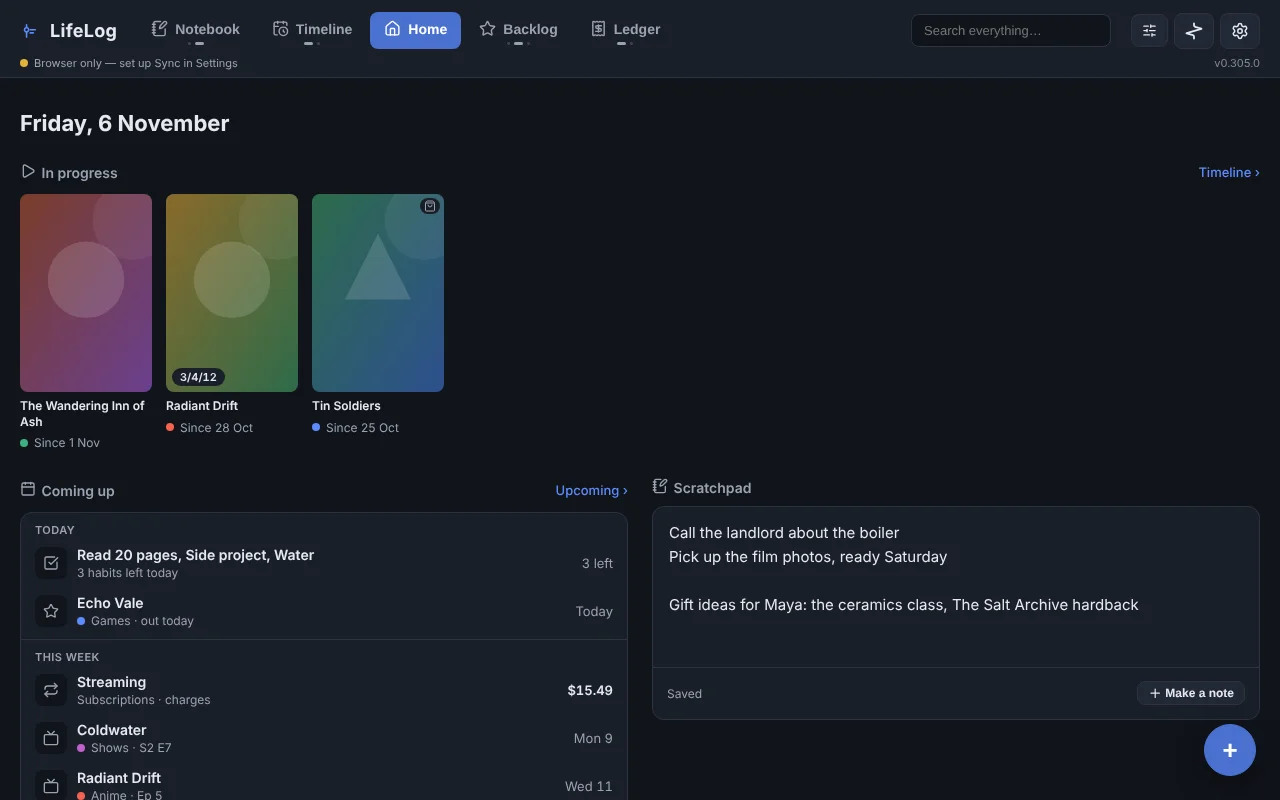
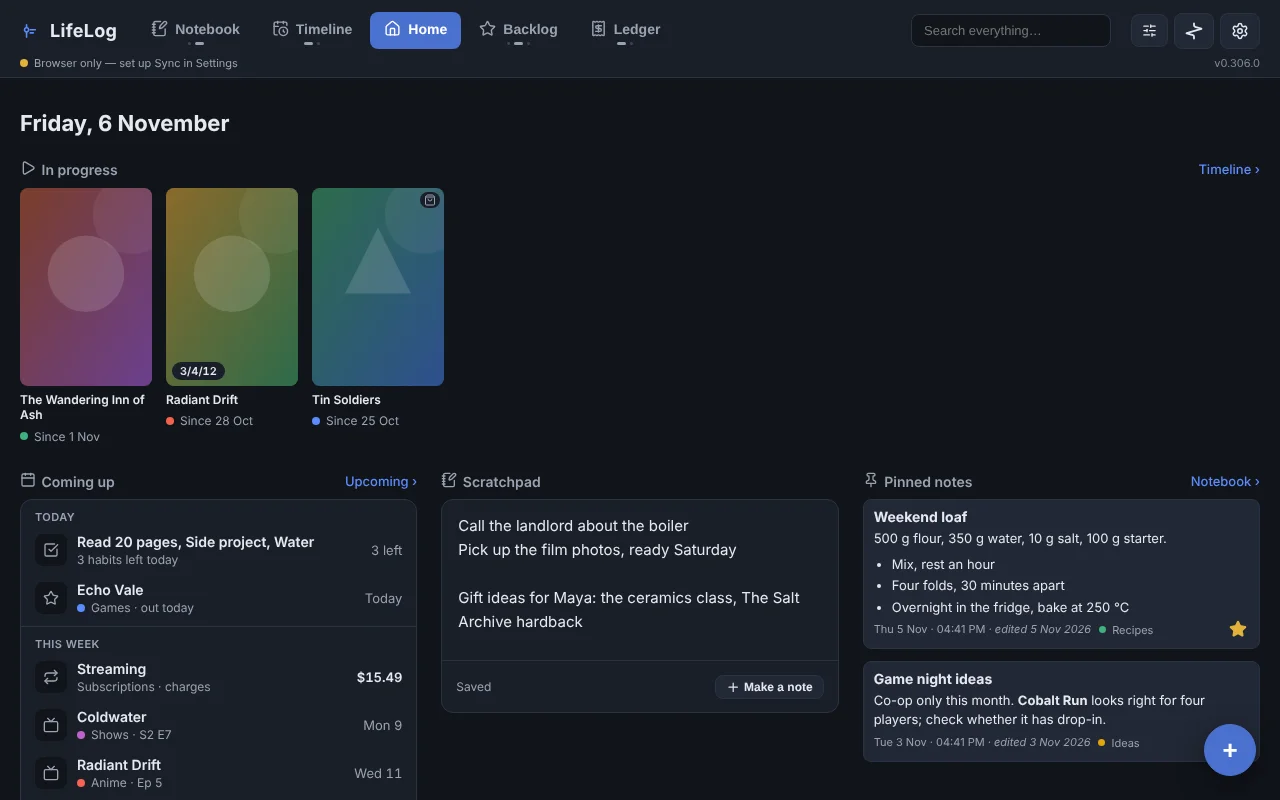
Home: Coming up, Scratchpad and Pinned notes share one row on a computer (#52)
Pinned notes is a half section now, and any run of halves next to each
other in your order shares a row: three across (.home-pair.is-3), two
below 1100px, stacked on a phone. Inside a row the pinned cards are one
column. Section heads are the same height with or without a link, so
the three line up.

Claude-Session: https://claude.ai/code/session_01CFeKrjpXijdgWwZ1YkV6xG

diff --git a/test/browser/home.js b/test/browser/home.js
@@ -48,7 +48,12 @@ const SEED = {
   check("Home has no filter chips", await page.isHidden("#filterbar"));
   const heads = await page.evaluate(() => [...document.querySelectorAll(".home-sec-head h2")].map((h) => h.textContent.trim()));
   check("its sections, in the default order", JSON.stringify(heads) === JSON.stringify(["In progress", "Coming up", "Scratchpad", "Pinned notes"]), heads);
-  check("Coming up and Scratchpad share a row on a computer", await page.evaluate(() => !!document.querySelector(".home-pair .home-upcoming") && !!document.querySelector(".home-pair .home-scratch")));
+  const row = await page.evaluate(() => {
+    const r = document.querySelector(".home-pair");
+    const tops = [".home-upcoming", ".home-scratch", ".home-pinned"].map((s) => { const e = r && r.querySelector(s); return e ? Math.round(e.getBoundingClientRect().top) : null; });
+    return { three: !!r && r.classList.contains("is-3"), tops };
+  });
+  check("Coming up, Scratchpad and Pinned notes share one row on a computer", row.three && row.tops.every((t) => t !== null && t === row.tops[0]), row);
   check("in progress shows what's started", (await page.textContent(".home-progress")).includes("Playing Now"));
   const rows = await page.evaluate(() => [...document.querySelectorAll(".home-upcoming .home-row-title")].map((r) => r.textContent));
   check("coming up lists the episode, the charge and the release, soonest first", JSON.stringify(rows) === JSON.stringify(["Weekly Show", "Music", "Comes Out Soon"]), rows);
@@ -94,6 +99,7 @@ const SEED = {
   await page.click("#closeViewOptionsBtn"); await page.waitForTimeout(300);
   const after = await page.evaluate(() => [...document.querySelectorAll(".home-sec-head h2")].map((h) => h.textContent.trim()));
   check("moving Pinned notes to the top and hiding In progress redraws Home", JSON.stringify(after) === JSON.stringify(["Pinned notes", "Coming up", "Scratchpad"]), after);
+  check("and the three still share a row, Pinned notes first", await page.evaluate(() => { const r = document.querySelector(".home-pair.is-3"); return !!r && r.firstElementChild.classList.contains("home-pinned"); }));
   const vis = await page.evaluate(() => JSON.parse(localStorage.getItem("lifelog-visual-settings-v1")));
   check("and is kept for this device", JSON.stringify(vis.homeSections) === JSON.stringify(["pinned", "progress", "upcoming", "scratchpad"]) && vis.homeHidden.join() === "progress", vis);
 
@@ -120,8 +126,8 @@ const SEED = {
   pp.on("pageerror", (e) => errs.push("phone pageerror: " + e.message));
   await pp.goto(BASE + "/", { waitUntil: "networkidle" }); await pp.waitForTimeout(600);
   check("on a phone the sections stack", await pp.evaluate(() => {
-    const a = document.querySelector(".home-upcoming").getBoundingClientRect(), s = document.querySelector(".home-scratch").getBoundingClientRect();
-    return s.top >= a.bottom - 1 && Math.abs(a.left - s.left) < 2;
+    const a = document.querySelector(".home-upcoming").getBoundingClientRect(), s = document.querySelector(".home-scratch").getBoundingClientRect(), p = document.querySelector(".home-pinned").getBoundingClientRect();
+    return s.top >= a.bottom - 1 && p.top >= s.bottom - 1 && Math.abs(a.left - s.left) < 2 && Math.abs(a.left - p.left) < 2;
   }));
   check("and nothing is wider than the screen", await pp.evaluate(() => document.documentElement.scrollWidth <= window.innerWidth));
   await phone.close();

diff --git a/src/styles.css b/src/styles.css
@@ -4868,8 +4868,8 @@ html.force-mobile .place-grip { padding: var(--space-8); margin: calc(-1 * var(-
 
 /* ---------- Home (0.306.0, src/home.js) ----------
    One page of what's on now. Sections stack in the order chosen under View;
-   two half-width ones next to each other share a .home-pair row on a
-   computer and stack on a phone. */
+   half-width ones next to each other share a .home-pair row on a computer
+   (three across as .is-3, two below 1100px) and stack on a phone. */
 .home { display: flex; flex-direction: column; gap: var(--space-24); padding: var(--space-8) 0 var(--space-48); }
 .home-date { margin: 0; font-size: var(--fs-2xl); font-weight: 700; color: var(--text); }
 .home-sec { min-width: 0; }
@@ -4877,13 +4877,16 @@ html.force-mobile .place-grip { padding: var(--space-8); margin: calc(-1 * var(-
 .home-sec-head h2 { margin: 0; font-size: var(--fs-md); font-weight: 600; color: var(--text-dim); }
 .home-sec-head h2 .ico { width: 16px; height: 16px; }
 .home-more {
-  margin-left: auto; position: relative; border: 0; background: none; padding: var(--space-4) 0;
+  margin-left: auto; position: relative; border: 0; background: none; padding: 0;
   font: inherit; font-size: var(--fs-sm); font-weight: 500; color: var(--accent); cursor: pointer;
 }
-.home-more::after { content: ""; position: absolute; inset: -10px -8px; }
+.home-more::after { content: ""; position: absolute; inset: -14px -8px; }
 .home-empty { margin: 0; padding: var(--space-14) var(--space-16); color: var(--text-dim); font-size: var(--fs-sm);
   background: var(--surface-card); border: 1px dashed var(--border); border-radius: var(--r-card); }
 .home-pair { display: grid; grid-template-columns: minmax(0, 1fr) minmax(0, 1fr); gap: var(--space-24); align-items: start; }
+.home-pair.is-3 { grid-template-columns: repeat(3, minmax(0, 1fr)); }
+@media (max-width: 1100px) { .home-pair.is-3 { grid-template-columns: minmax(0, 1fr) minmax(0, 1fr); } }
+.home-pair .home-pins { grid-template-columns: minmax(0, 1fr); }
 .home-card { background: var(--surface-card); border: 1px solid var(--border); border-radius: var(--r-card); overflow: hidden; }
 
 .home-strip { display: flex; gap: var(--space-14); overflow-x: auto; padding-bottom: var(--space-4); scrollbar-width: thin; }
@@ -4926,12 +4929,12 @@ html.force-mobile .place-grip { padding: var(--space-8); margin: calc(-1 * var(-
 .home-sec-row .sitem-title .ico { width: 16px; height: 16px; color: var(--text-dim); }
 
 @media (max-width: 720px) {
-  html:not(.force-pc) .home-pair { grid-template-columns: minmax(0, 1fr); }
+  html:not(.force-pc) .home-pair, html:not(.force-pc) .home-pair.is-3 { grid-template-columns: minmax(0, 1fr); }
   html:not(.force-pc) .home-tile { flex-basis: 112px; }
   html:not(.force-pc) .home-pins { grid-template-columns: minmax(0, 1fr); }
   html:not(.force-pc) .home-pad { font-size: var(--fs-lg); }
 }
-html.force-mobile .home-pair { grid-template-columns: minmax(0, 1fr); }
+html.force-mobile .home-pair, html.force-mobile .home-pair.is-3 { grid-template-columns: minmax(0, 1fr); }
 html.force-mobile .home-tile { flex-basis: 112px; }
 html.force-mobile .home-pins { grid-template-columns: minmax(0, 1fr); }
 html.force-mobile .home-pad { font-size: var(--fs-lg); }

diff --git a/src/home.js b/src/home.js
@@ -11,13 +11,13 @@
   const Dates = () => window.LifeLogDates || require("./dates.js");
   const ico = (n, c) => window.LifeLogIcons.svg(n, c);
 
-  // [id, label, icon, half]. A half section sits beside another half one on
-  // a wide screen when the two are next to each other in your order.
+  // [id, label, icon, half]. Half sections next to each other in your order
+  // share a row on a wide screen (two or three across).
   const SECTIONS = [
     ["progress", "In progress", "play", false],
     ["upcoming", "Coming up", "calendar", true],
     ["scratchpad", "Scratchpad", "notebook-pen", true],
-    ["pinned", "Pinned notes", "pin", false],
+    ["pinned", "Pinned notes", "pin", true],
   ];
   const SECTION_IDS = SECTIONS.map(([id]) => id);
   const DAYS_AHEAD = 14;
@@ -342,16 +342,17 @@
       root.appendChild(page);
       return;
     }
-    // Two halves next to each other in your order share a row on a wide
-    // screen; a half on its own takes the whole width.
-    for (let i = 0; i < ids.length; i++) {
-      const id = ids[i], next = ids[i + 1];
-      if (HALF.has(id) && next && HALF.has(next)) {
-        const pair = el("div", "home-pair");
-        pair.append(BUILD[id](), BUILD[next]());
-        page.appendChild(pair);
-        i++;
-      } else page.appendChild(BUILD[id]());
+    // Halves next to each other in your order share a row on a wide screen;
+    // a half on its own takes the whole width.
+    for (let i = 0; i < ids.length;) {
+      let j = i;
+      while (j < ids.length && HALF.has(ids[j])) j++;
+      if (j - i >= 2) {
+        const row = el("div", "home-pair" + (j - i >= 3 ? " is-3" : ""));
+        ids.slice(i, j).forEach((id) => row.appendChild(BUILD[id]()));
+        page.appendChild(row);
+        i = j;
+      } else page.appendChild(BUILD[ids[i++]]());
     }
     root.appendChild(page);
   }

diff --git a/DONE.md b/DONE.md
@@ -13,6 +13,7 @@ Every release that adds a feature adds its line here in the same commit.
 
 - Six tabs: Home, and Notebook, Timeline, Backlog, Ledger, Travel, each with modes (0.126.0, Travel 0.241.0, Home 0.306.0)
 - Home in the middle of the bar, where a fresh start opens: In progress covers, Coming up for two weeks (releases and episodes known to the day, recurring charges, habits left), a synced scratchpad with Make a note, notes pinned from a note's ⋯ menu; sections ordered and hidden under View (0.306.0)
+- On a computer, Home sections next to each other (Coming up, Scratchpad, Pinned notes) share one row, two or three across (unreleased)
 - Every tab and mode has its own name: Notebook (Notes, Habits), Timeline (Log, Stats), Backlog (List, Discover, Upcoming), Ledger (Expenses, Summary) (0.231.0)
 - Swipe between modes like a pager, and round from the last to the first (0.177.0)
 - Press and hold a tab for its modes; tap the current tab to step modes or scroll to the top (0.125.0, 0.264.2)

diff --git a/changes/feature-home-side-by-side.md b/changes/feature-home-side-by-side.md
@@ -1,0 +1,2 @@
+### Changed
+- On a computer, Home's Coming up, Scratchpad and Pinned notes sit side by side in one row when they're next to each other in your order (two across on a narrower window). On a phone they still stack.
